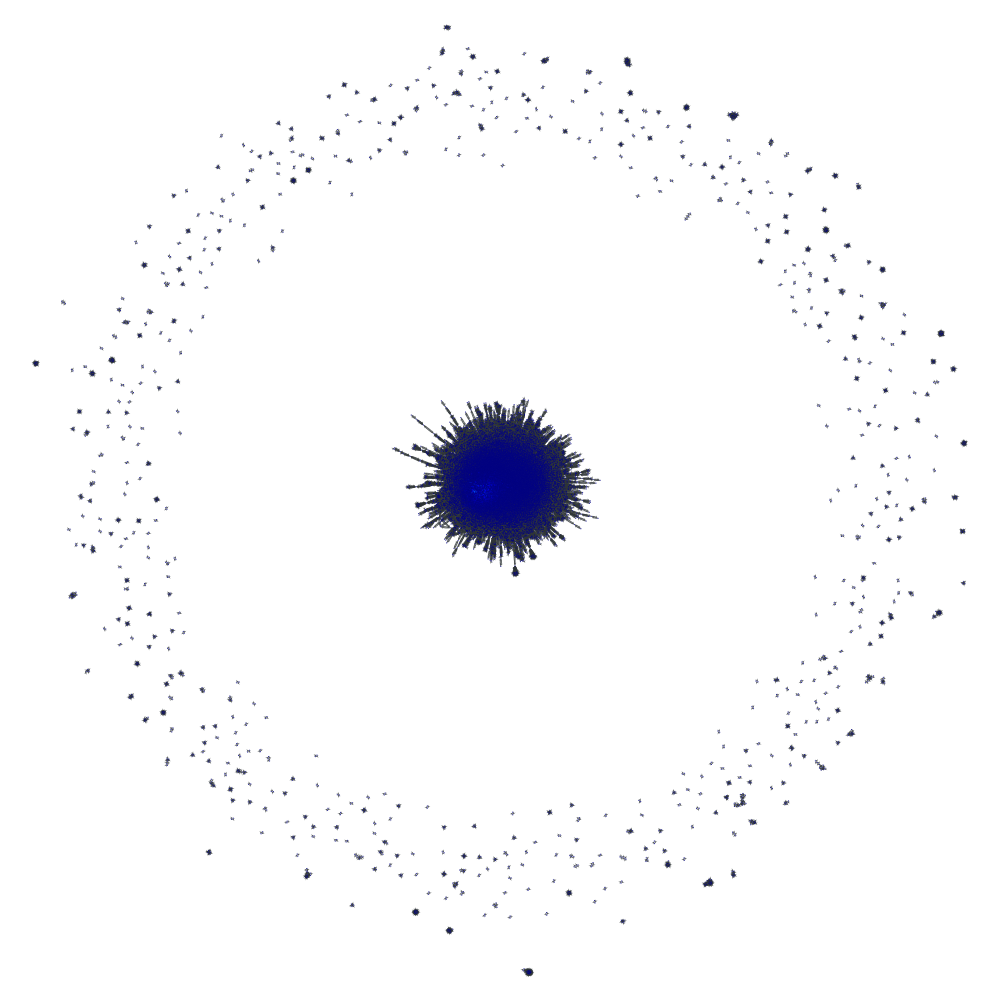
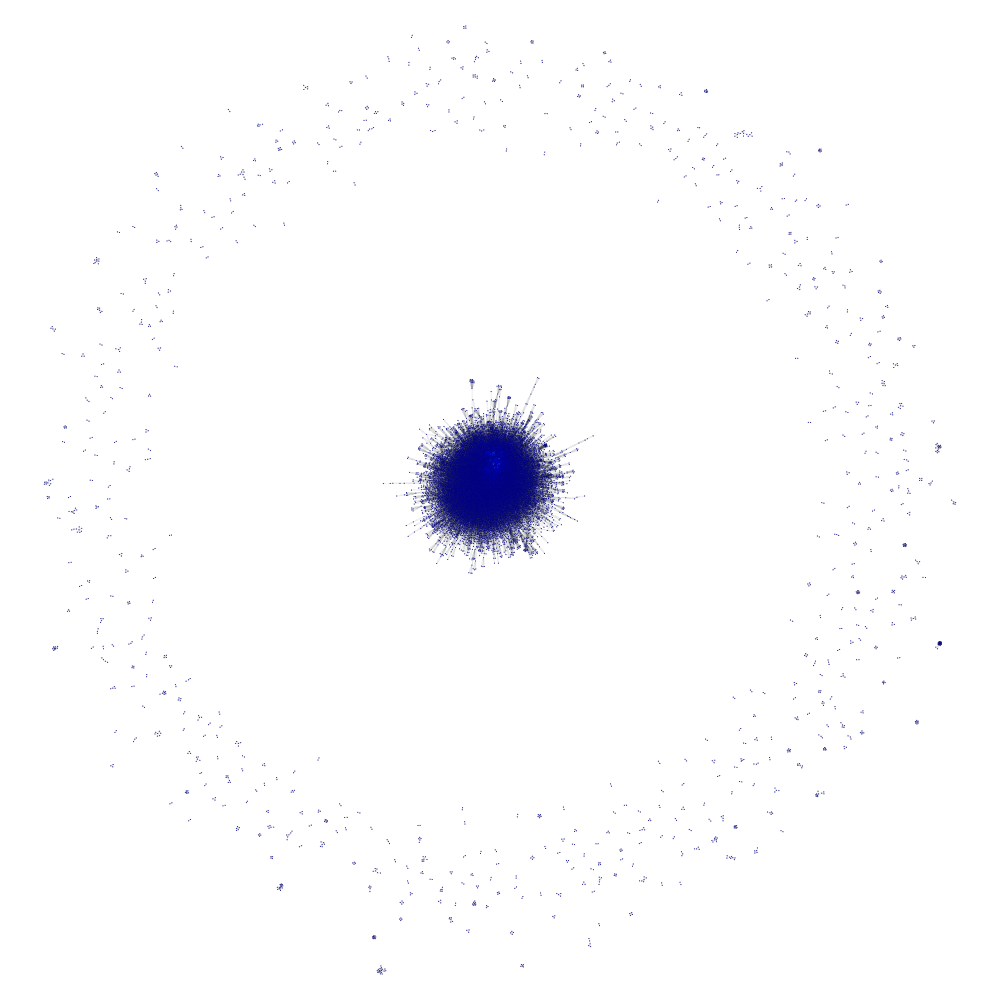
Playing with images

diff --git a/trabalho1/trabalho1.py b/trabalho1/trabalho1.py
@@ -186,7 +186,7 @@ centralityHist = vertex_hist(o.g, centralityTuple[1], numpy.linspace(0,0.5,101))
 centrality = centralityTuple[1]
 #majorCentrality = centralityTuple[0]
 
-graph_draw(o.g, output_size=(1000, 1000), vertex_color=centrality, vertex_fill_color=centrality, vertex_size=1, edge_pen_width=0.1, output="centrality"+fileName[:-4]+".png")
+graph_draw(o.g, output_size=(1000, 1000), vertex_color=centrality, vertex_fill_color=centrality, vertex_size=1, edge_pen_width=0, output="centrality"+fileName[:-4]+".png")
 
 
 #print degreeHist
